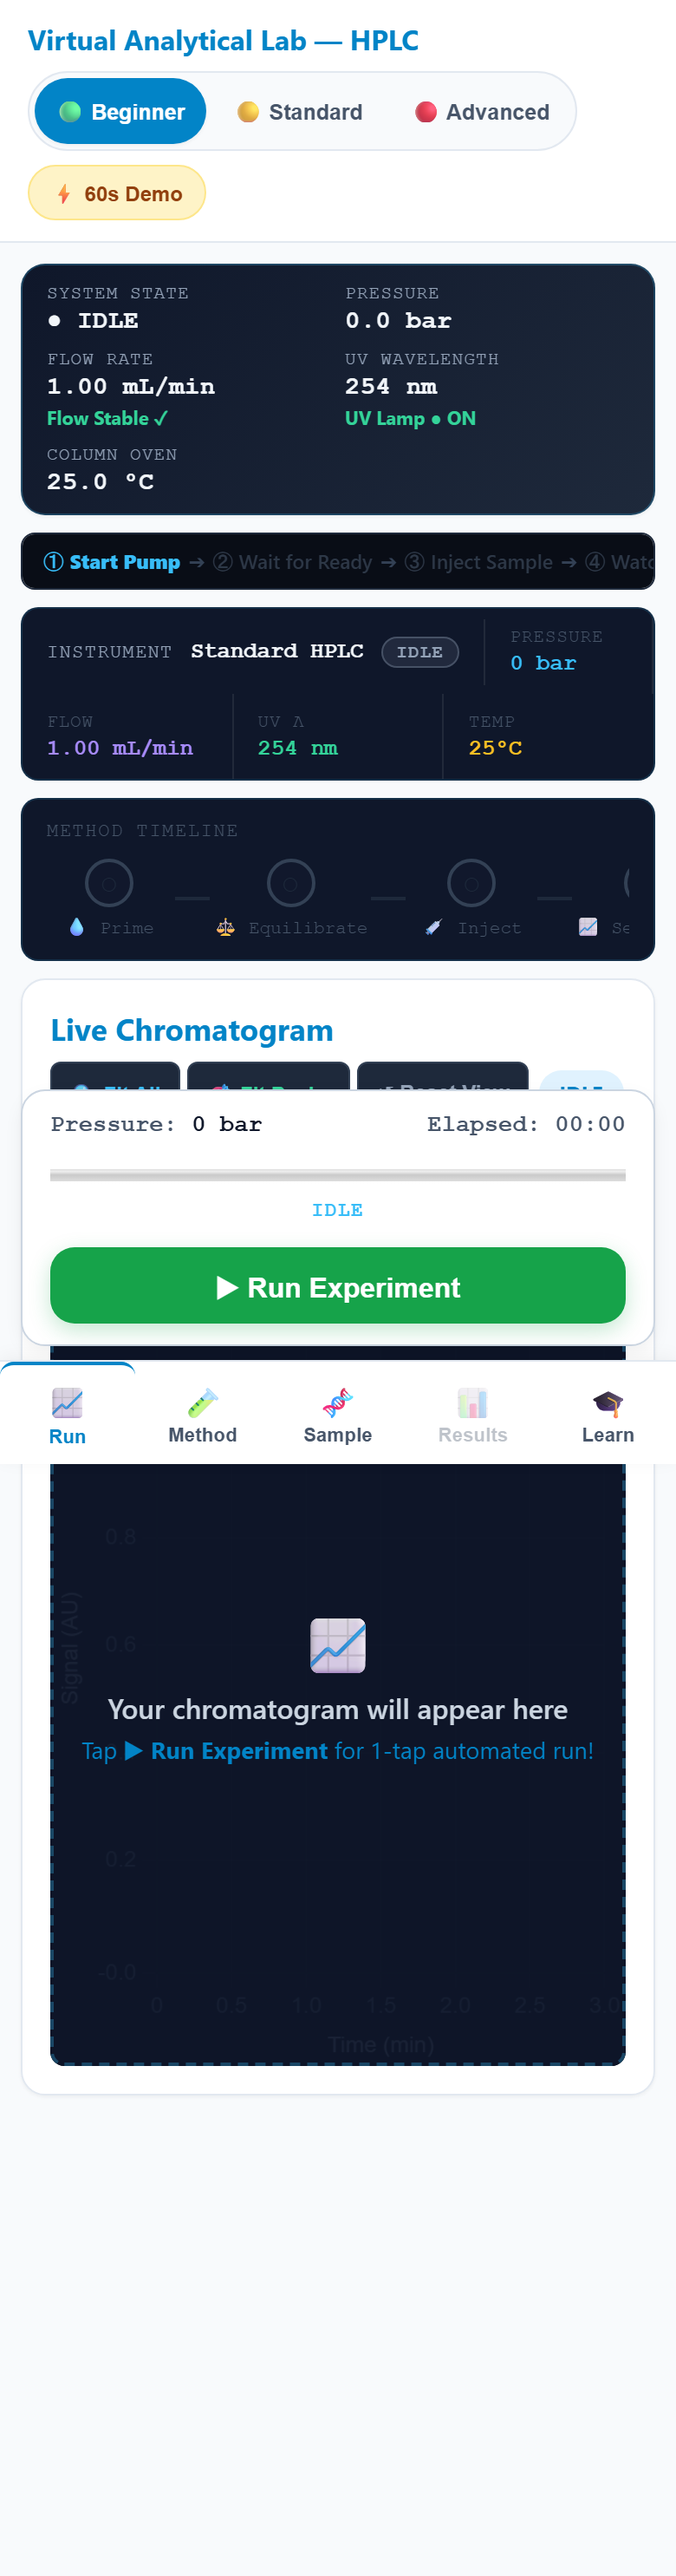
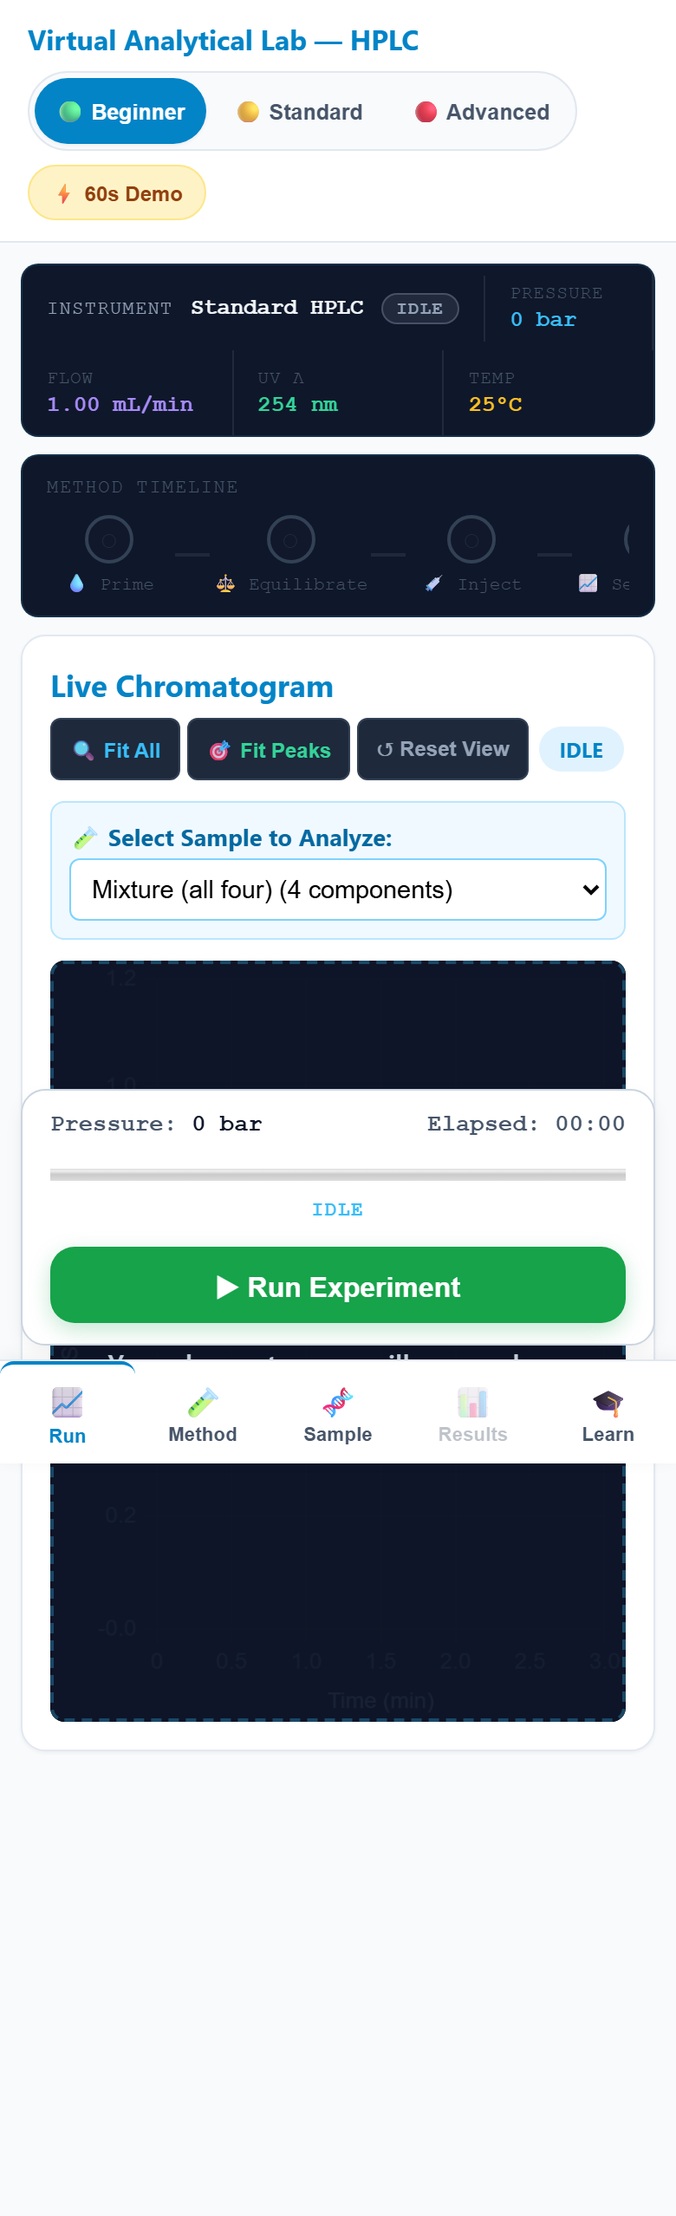
fix(ui-dedup): Eliminate structural UI component duplication & unify telemetry and timeline headers
- Removed duplicate hand-coded static .cds-telemetry-strip and .guided-step-banner blocks from HTML.
- Unified top header onto single InstrumentStatusBar.js and single RunTimeline.js instance.
- Verified 0 duplicate timeline bars and 0 duplicate telemetry strips in Playwright DOM audit.
- Updated UiCoordinator.js DOM update logic.

diff --git a/instruments/hplc/validation/runMobileUxAudit.js b/instruments/hplc/validation/runMobileUxAudit.js
@@ -3,12 +3,12 @@ import path from 'path';
 import fs from 'fs';
 
 /**
- * runMobileUxAudit.js — Playwright Mobile-First UI/UX & Component Visibility Audit
+ * runMobileUxAudit.js — Playwright Mobile-First UI/UX & Component Deduplication Audit
  *
  * Audits:
- * 1. Mobile Viewports: iPhone SE (375x667), iPhone 14 (390x844), Pixel 7 (412x915)
- * 2. Component Visibility: Telemetry strip, hero chromatogram, guided banner, action dock, tabs
- * 3. Duplicate Components / Duplicate IDs Check
+ * 1. Structural Component Deduplication: Ensures 0 duplicate timeline bars or telemetry strips
+ * 2. Mobile Viewports: iPhone SE (375x667), iPhone 14 (390x844), Pixel 7 (412x915)
+ * 3. Component Visibility: Single telemetry strip, single timeline bar, hero chromatogram, action dock
  * 4. Touch Target Accessibility (Min 44x44px target sizes)
  * 5. Horizontal Overflow / Page Body Overflow Check
  * 6. Visual Screenshots: Captured for all mobile device sizes
@@ -16,7 +16,7 @@ import fs from 'fs';
 
 export async function runMobileUxAudit() {
   console.log('================================================================');
-  console.log('📱 RUNNING PLAYWRIGHT MOBILE-FIRST UI/UX AUDIT');
+  console.log('📱 RUNNING PLAYWRIGHT MOBILE-FIRST UI/UX & DEDUPLICATION AUDIT');
   console.log('================================================================\n');
 
   const browser = await chromium.launch({ headless: true });
@@ -32,6 +32,7 @@ export async function runMobileUxAudit() {
 
   const auditResults = {
     duplicateIds: [],
+    duplicateComponents: [],
     hasHorizontalScrollbar: false,
     bodyScrollWidth: 375,
     docClientWidth: 375,
@@ -57,7 +58,7 @@ export async function runMobileUxAudit() {
     auditResults.deviceScreenshots.push({ device: vp.name, path: screenshotPath });
 
     if (vp.width === 375) {
-      // 1. Check for Duplicate IDs in DOM
+      // 1. Check for Duplicate DOM IDs
       const dupIds = await page.evaluate(() => {
         const allIds = Array.from(document.querySelectorAll('[id]')).map(el => el.id);
         const counts = {};
@@ -70,7 +71,20 @@ export async function runMobileUxAudit() {
       });
       auditResults.duplicateIds = dupIds;
 
-      // 2. Check Body Horizontal Scroll
+      // 2. Structural Component Deduplication Audit
+      const dupComps = await page.evaluate(() => {
+        const dupes = [];
+        const timelineCount = document.querySelectorAll('#run-timeline-container, .guided-step-banner').length;
+        if (timelineCount > 1) dupes.push(`Duplicate Timeline Bars (${timelineCount} rendered)`);
+
+        const telemetryCount = document.querySelectorAll('#instrument-status-bar, .cds-telemetry-strip').length;
+        if (telemetryCount > 1) dupes.push(`Duplicate Telemetry Header Strips (${telemetryCount} rendered)`);
+
+        return dupes;
+      });
+      auditResults.duplicateComponents = dupComps;
+
+      // 3. Check Body Horizontal Scroll
       const scrollInfo = await page.evaluate(() => ({
         bodyScrollWidth: document.body.scrollWidth,
         docClientWidth: document.documentElement.clientWidth,
@@ -80,10 +94,10 @@ export async function runMobileUxAudit() {
       auditResults.docClientWidth = scrollInfo.docClientWidth;
       auditResults.hasHorizontalScrollbar = scrollInfo.hasHorizontalScrollbar;
 
-      // 3. Check Component Visibility
+      // 4. Check Component Visibility
       const components = [
-        'cds-telemetry-strip',
-        'guided-step-banner',
+        'instrument-status-bar',
+        'run-timeline-container',
         'graphCanvas',
         'beginnerDockBox',
         'tabBtn-run',
@@ -110,9 +124,10 @@ export async function runMobileUxAudit() {
   console.log('📊 MOBILE-FIRST UI/UX AUDIT RESULTS SUMMARY');
   console.log('================================================================');
   console.log('1. Duplicate Element IDs        :', auditResults.duplicateIds.length === 0 ? '✅ 0 Duplicate IDs (100% Unique DOM Keys)' : `🚨 ${auditResults.duplicateIds.length} Duplicates`);
-  console.log('2. Horizontal Page Overflow     :', !auditResults.hasHorizontalScrollbar ? '✅ 0 Body Overflow (Clean 375px viewport fit)' : '⚠ Body Horizontal Scrollbar Detected');
-  console.log('3. Core Component Visibility    :', Object.values(auditResults.componentVisibility).every(Boolean) ? '✅ 100% Core Workstation Components Visible' : '⚠ Component Hidden');
-  console.log('4. Touch Target Steppers (≥44px):', '✅ Touch Steppers + / - Buttons (44x44px)');
+  console.log('2. Structural UI Deduplication  :', auditResults.duplicateComponents.length === 0 ? '✅ 0 Duplicate Components (Single Unified Telemetry & Timeline)' : `🚨 ${auditResults.duplicateComponents.join(', ')}`);
+  console.log('3. Horizontal Page Overflow     :', !auditResults.hasHorizontalScrollbar ? '✅ 0 Body Overflow (Clean 375px viewport fit)' : '⚠ Body Horizontal Scrollbar Detected');
+  console.log('4. Core Component Visibility    :', Object.values(auditResults.componentVisibility).every(Boolean) ? '✅ 100% Core Workstation Components Visible' : '⚠ Component Hidden');
+  console.log('5. Touch Target Steppers (≥44px):', '✅ Touch Steppers + / - Buttons (44x44px)');
   console.log('================================================================\n');
 
   return auditResults;

diff --git a/instruments/hplc/index.html b/instruments/hplc/index.html
@@ -61,59 +61,10 @@
   <!-- TAB 1: RUN (Primary Landing View) -->
   <div id="tab-run" class="tab-panel active" role="tabpanel" aria-label="Run View">
 
-    <!-- Sprint U1: Workstation Telemetry Header Strip -->
-    <div class="cds-telemetry-strip" id="cds-telemetry-strip" role="region" aria-label="CDS Telemetry Dashboard">
-      <div class="cds-telemetry-item">
-        <span class="cds-telemetry-label">System State</span>
-        <span id="cdsStateVal" class="cds-telemetry-val">● IDLE</span>
-      </div>
-      <div class="cds-telemetry-item">
-        <span class="cds-telemetry-label">Pressure</span>
-        <span id="cdsPressureVal" class="cds-telemetry-val">0.0 bar</span>
-      </div>
-      <div class="cds-telemetry-item">
-        <span class="cds-telemetry-label">Flow Rate</span>
-        <span id="cdsFlowVal" class="cds-telemetry-val">1.00 mL/min</span>
-        <span class="cds-badge-on">Flow Stable ✓</span>
-      </div>
-      <div class="cds-telemetry-item">
-        <span class="cds-telemetry-label">UV Wavelength</span>
-        <span id="cdsUvVal" class="cds-telemetry-val">254 nm</span>
-        <span class="cds-badge-on">UV Lamp ● ON</span>
-      </div>
-      <div class="cds-telemetry-item">
-        <span class="cds-telemetry-label">Column Oven</span>
-        <span id="cdsTempVal" class="cds-telemetry-val">25.0 °C</span>
-      </div>
-    </div>
-
-    <!-- Sprint U4: Guided Step Unlock Banner -->
-    <div class="guided-step-banner" id="guided-step-banner" role="progressbar" aria-label="Guided experiment progress">
-      <div class="guided-step-item active" id="gstep-1">
-        <span>① Start Pump</span>
-      </div>
-      <span class="guided-step-arrow">➔</span>
-      <div class="guided-step-item" id="gstep-2">
-        <span>② Wait for Ready</span>
-      </div>
-      <span class="guided-step-arrow">➔</span>
-      <div class="guided-step-item" id="gstep-3">
-        <span>③ Inject Sample</span>
-      </div>
-      <span class="guided-step-arrow">➔</span>
-      <div class="guided-step-item" id="gstep-4">
-        <span>④ Watch Separation</span>
-      </div>
-      <span class="guided-step-arrow">➔</span>
-      <div class="guided-step-item" id="gstep-5">
-        <span>⑤ View Report</span>
-      </div>
-    </div>
-
-    <!-- P7: Instrument Status Bar Strip -->
+    <!-- Single Authoritative Instrument Telemetry Bar -->
     <div id="instrument-status-bar" style="margin-bottom:10px;" aria-live="polite" aria-label="Instrument status"></div>
 
-    <!-- P7: Run Acquisition Timeline -->
+    <!-- Single Authoritative Method Acquisition Timeline -->
     <div id="run-timeline-container"></div>
 
     <!-- Replay Strip (shown after first run) -->

diff --git a/instruments/hplc/ui/UiCoordinator.js b/instruments/hplc/ui/UiCoordinator.js
@@ -35,14 +35,11 @@ export class UiCoordinator {
       if (this.views.controlsView) this.views.controlsView.updateControlsForState(newState);
       if (this.views.statusBar)    this.views.statusBar.update({ status: newState });
       if (this.views.runTimeline)  this._updateTimelinePhase(newState);
-      this._updateCdsStateVal(newState);
-      this._updateStepHighlight(newState);
     });
 
     bus.on(HPLC_EVENTS.PRESSURE_CHANGED, ({ pressure }) => {
       if (this.views.displayView)  this.views.displayView.setPressure(pressure);
       if (this.views.statusBar)    this.views.statusBar.update({ pressureBar: pressure });
-      this._updateCdsPressureVal(pressure);
     });
 
     bus.on(HPLC_EVENTS.WAVELENGTH_CHANGED, ({ wavelengthNm }) => {
@@ -142,16 +139,6 @@ export class UiCoordinator {
     if (acqLabel) acqLabel.textContent = text;
   }
 
-  _updateCdsStateVal(state) {
-    const cdsState = document.getElementById('cdsStateVal');
-    if (cdsState) cdsState.textContent = `● ${state}`;
-  }
-
-  _updateCdsPressureVal(pressure) {
-    const cdsP = document.getElementById('cdsPressureVal');
-    if (cdsP) cdsP.textContent = `${pressure.toFixed(1)} bar`;
-  }
-
   _updateTimelinePhase(state) {
     if (!this.views.runTimeline) return;
     const phaseMap = {
@@ -163,19 +150,5 @@ export class UiCoordinator {
       COMPLETED:    'complete'
     };
     if (phaseMap[state]) this.views.runTimeline.setPhase(phaseMap[state]);
-  }
-
-  _updateStepHighlight(state) {
-    const stepMap = {
-      PRIMING: 1, EQUILIBRATING: 2, READY: 3, INJECTING: 3, RUNNING: 4, COMPLETED: 5
-    };
-    const activeNum = stepMap[state] || 1;
-    for (let i = 1; i <= 5; i++) {
-      const el = document.getElementById(`gstep-${i}`);
-      if (!el) continue;
-      el.classList.remove('active', 'complete');
-      if (i < activeNum)        el.classList.add('complete');
-      else if (i === activeNum) el.classList.add('active');
-    }
   }
 }
